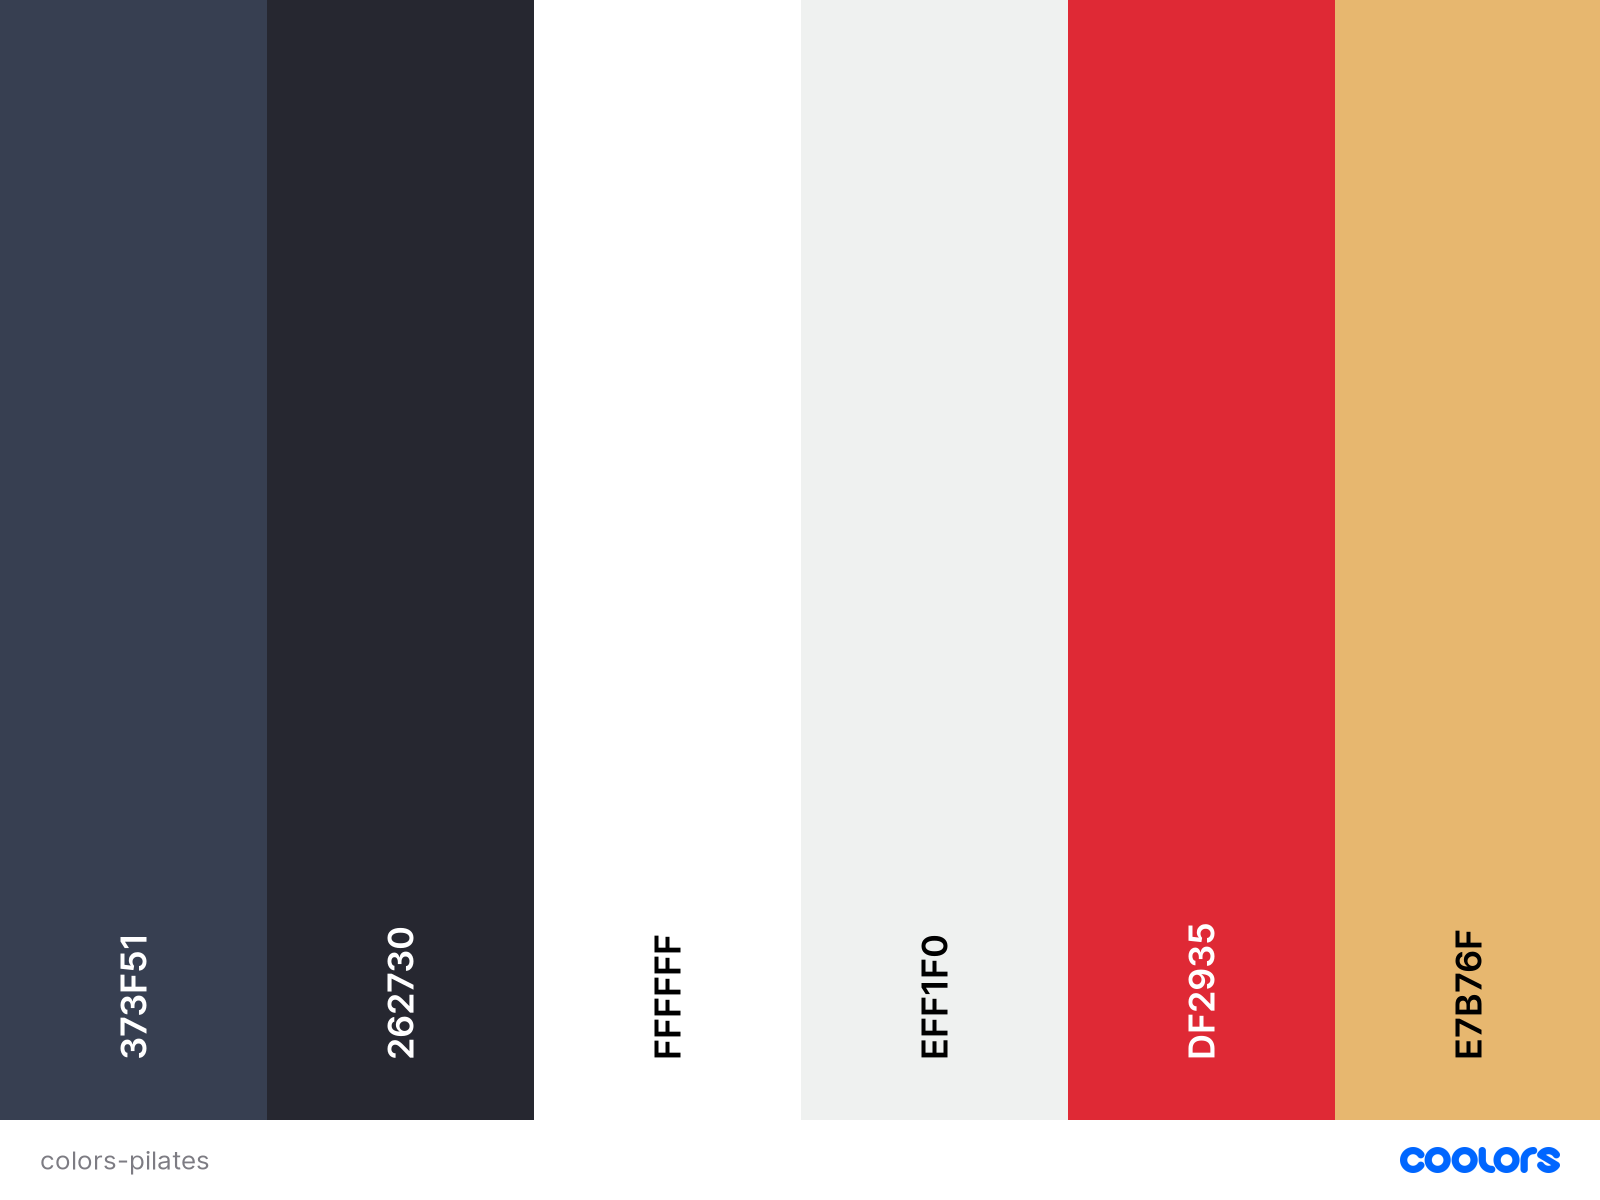
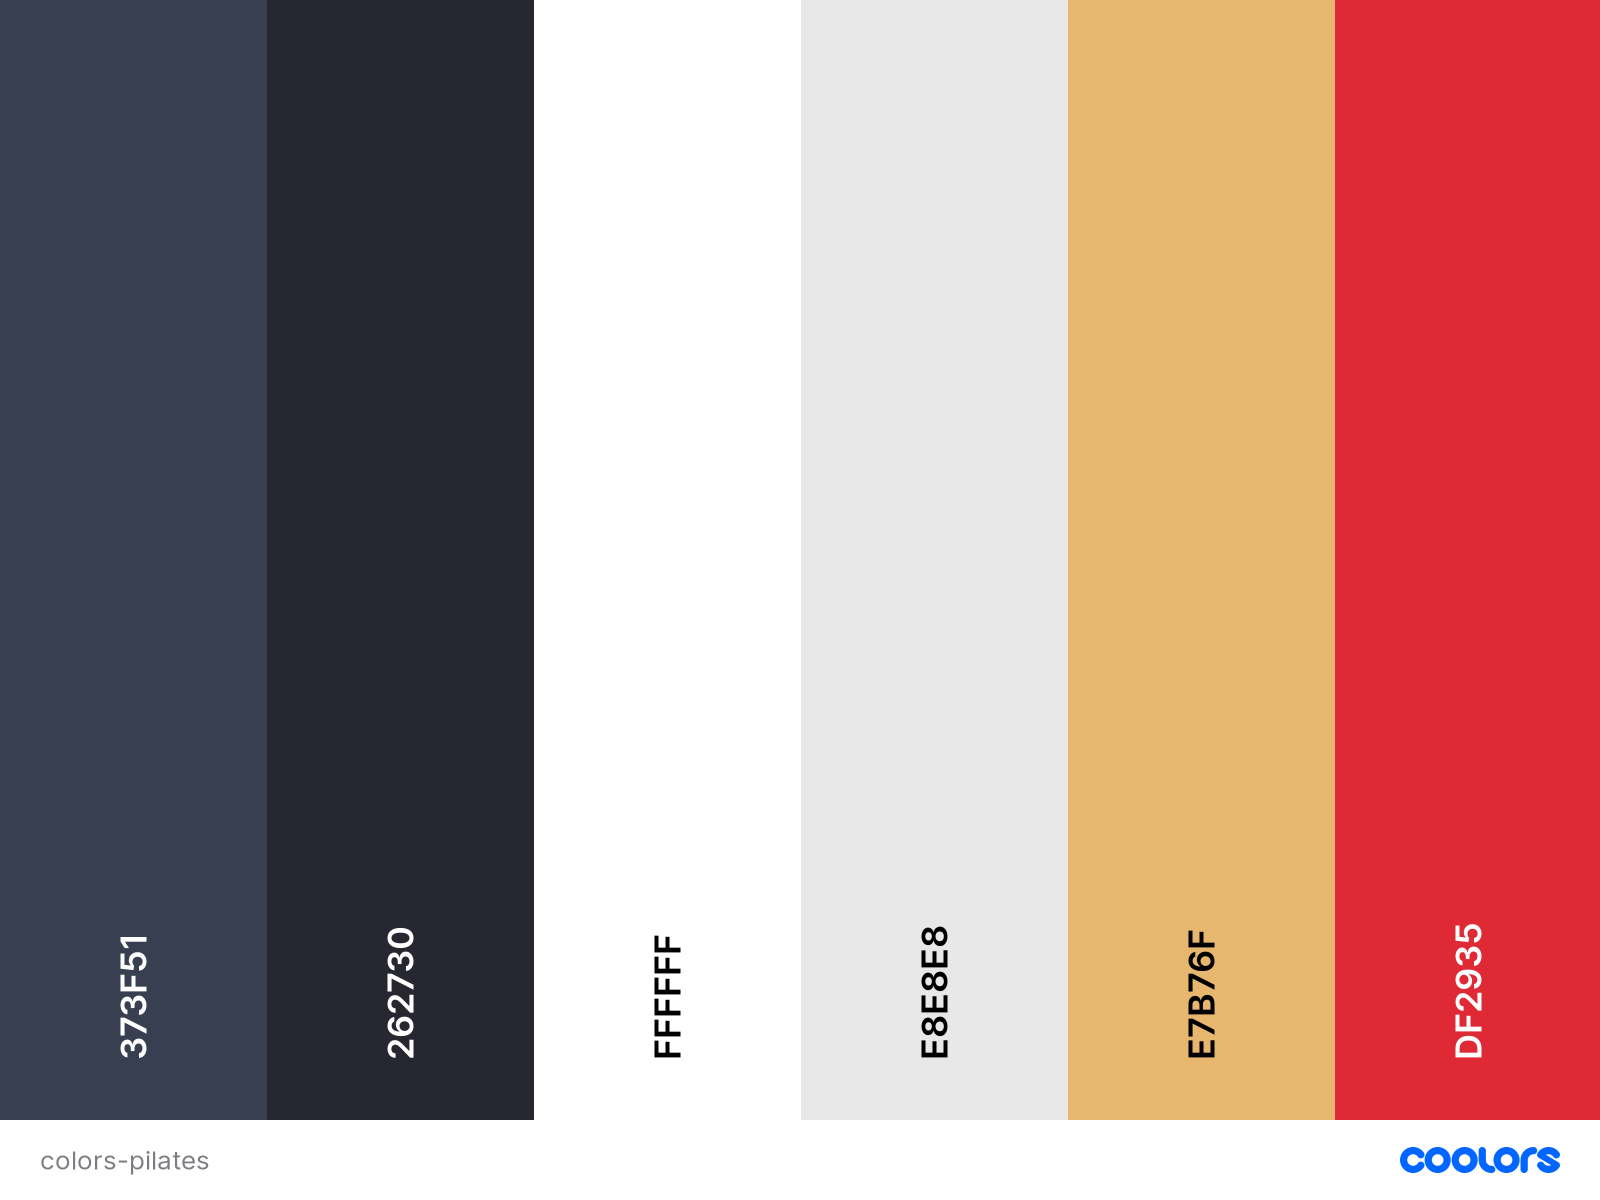
Corrected language for wireframes and design choises in readme-file. Especially I replaced color-pilates.png with a new fiel since I changed Charchol with Platinum

diff --git a/README.md b/README.md
@@ -125,10 +125,11 @@ I [Balsamiq Wireframes](https://balsamiq.com/) to build rudimentary wireframes f
 I have made wireframes for three pages and for each page I have frames for each of Desktop/Tablet/Mobile.
 [Wireframes](https://github.com/Carina-P/LovePilates/blob/master/wireframes/wireframes.pdf)
 
-I checked wireframes with users and especially younger preferred all information in one page since it is a moderate amount of features: they use mobile device and do not want to click a lot.
+**Comment:**I checked wireframes with users and especially younger preferred all information in one page since it is a moderate amount of features: they use mobile device and do not want to click a lot.
+
 One user suggested to use a carousel for quotes - takes less space. I tried that and thougt it was appealing.
 
-This change also made me change the order of features (sections) to satisfy what the user told me.
+This change also made me change the order of features (sections) to satisfy what the users told me.
 
 ## Design Choices
 I looked around different pilates sites to find inspiration and desided that I wanted a hero-image to be a drawn picture - for me it felt more modern. I found a picture that I thought was inspiring 
@@ -141,7 +142,7 @@ Comment: After testing and talking to users I decided to use more white than gre
 I have choosen **Open Sans** that I think is a modern, friendly, easy to read font.
 
 ### Icons
-**Icons** used where provided by [Font Awesome](https://fontawesome.com/), used in **moderation** and are self explanatory.
+**Icons** used where provided by [Font Awesome](https://fontawesome.com/), used in **moderation** and are **self explanatory**.
 
 ### Colours
 * For text: Charchool #373f51
@@ -153,12 +154,12 @@ I have choosen **Open Sans** that I think is a modern, friendly, easy to read fo
 
 <img src="/wireframes/colors-pilates.png" width="75%">
 
-After testing I decided that I wanted more color and did not use gray backgrounds as much as I planned. For good contrast I choosed to use the darker color for all text on lighter background. 
+After testing and talking to users I decided to not use gray backgrounds as much as I planned. For good contrast I choosed to use the darker color for all text on lighter background. 
 I still use above colors but it looks like this instead:
 * Fonts for good contrast:
     * Lighter backgrounds: Raisin black #262730
     * Darker backgrounds: White: #ffffff
-* Backgrounds: Sunray #e7b76f, Cultured #eff1f0 and  Charchool #373f51
+* Backgrounds: White #ffffff, Sunray #e7b76f, Cultured #eff1f0 and  Charchool #373f51
 * All buttons: Rose Madder #DF2935 and white #ffffff
 
 
